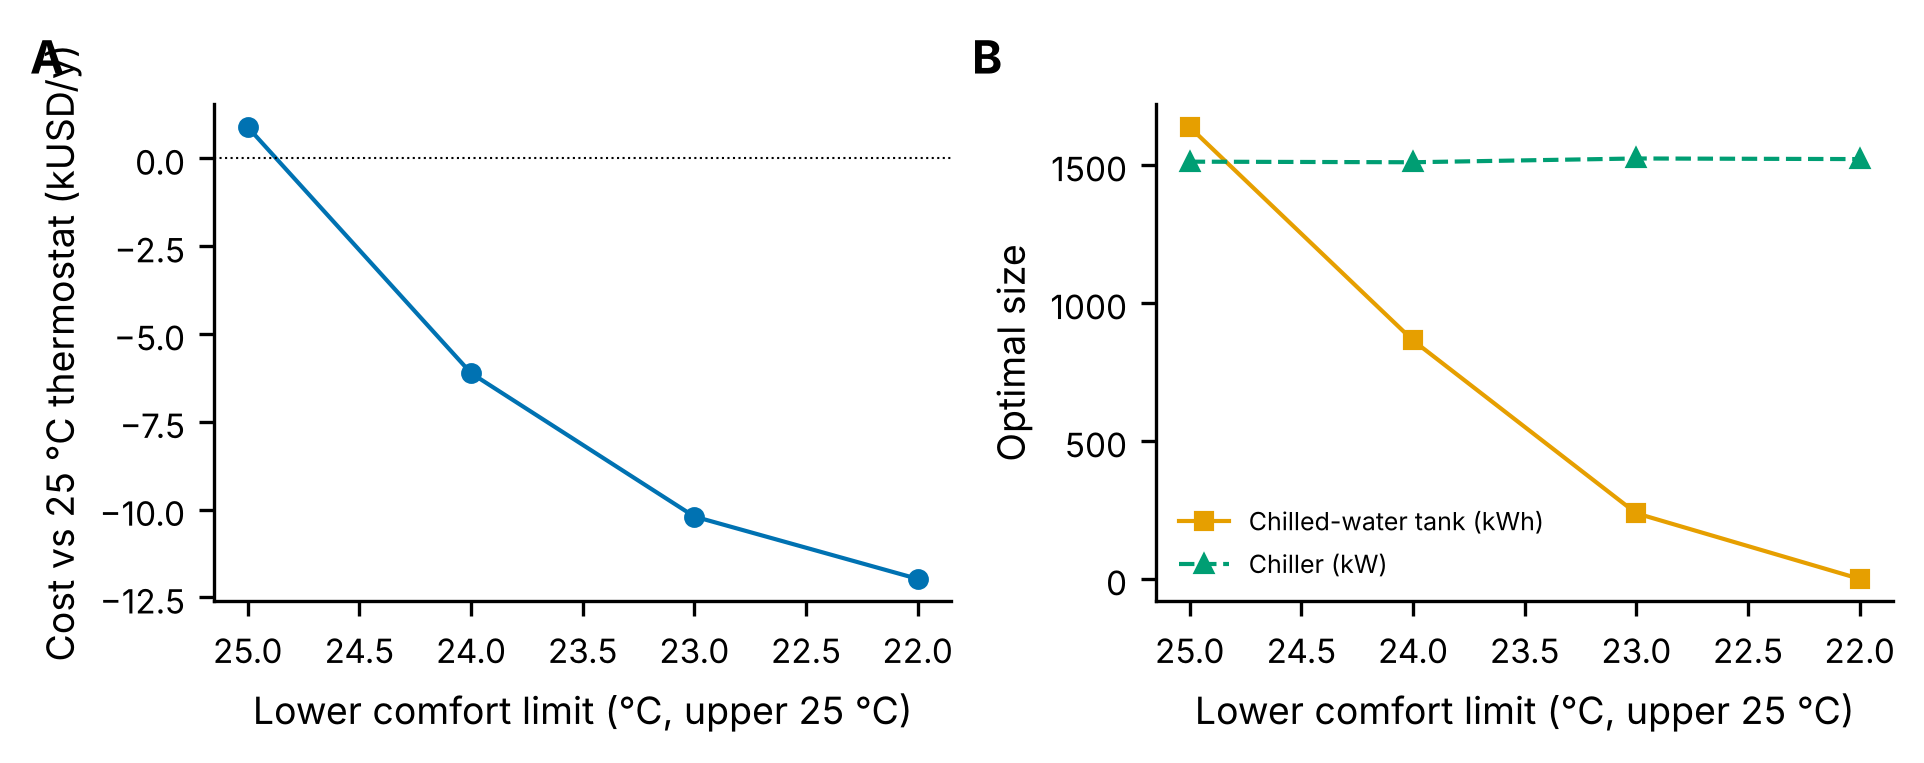
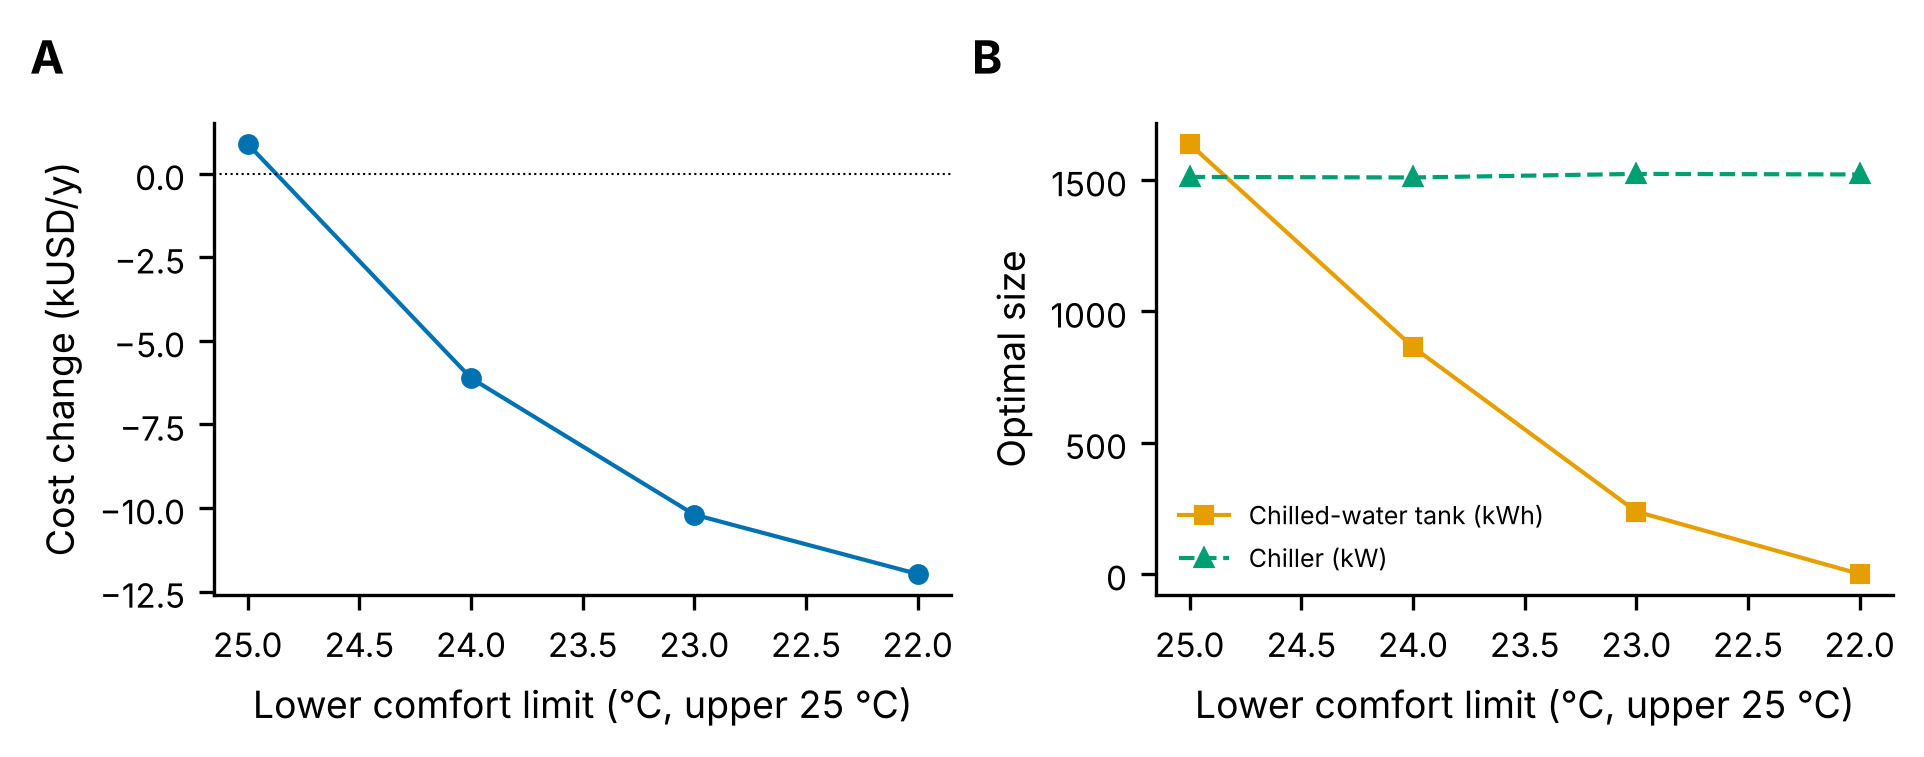
Figure 3 label

diff --git a/make_figures.py b/make_figures.py
@@ -84,7 +84,7 @@ def fig3():
     fig, ax = subplots(1, 2, figsize=(6.4, 2.6))
     ax[0].plot(b.low, (b.total_cost - ref.total_cost) / 1e3, "o-", color=C["blue"], lw=1, ms=4)
     ax[0].axhline(0, color="k", lw=0.5, ls=":")
-    ax[0].set(xlabel="Lower comfort limit (°C, upper 25 °C)", ylabel="Cost vs 25 °C thermostat (kUSD/y)")
+    ax[0].set(xlabel="Lower comfort limit (°C, upper 25 °C)", ylabel="Cost change (kUSD/y)")
     ax[0].invert_xaxis()
     ax[1].plot(b.low, b.size_cold_storage, "s-", color=C["orange"], lw=1, ms=4, label="Chilled-water tank (kWh)")
     ax[1].plot(b.low, b.size_chiller, "^--", color=C["green"], lw=1, ms=4, label="Chiller (kW)")
@@ -92,7 +92,7 @@ def fig3():
     ax[1].invert_xaxis()
     ax[1].legend(frameon=False, fontsize=6)
     for a, l in zip(ax, "AB"):
-        panel(a, l, x=-0.25)
+        panel(a, l, x=-0.25, y=1.08)
     save(fig, FIG / "fig3_thermal_mass.png")
 
 
